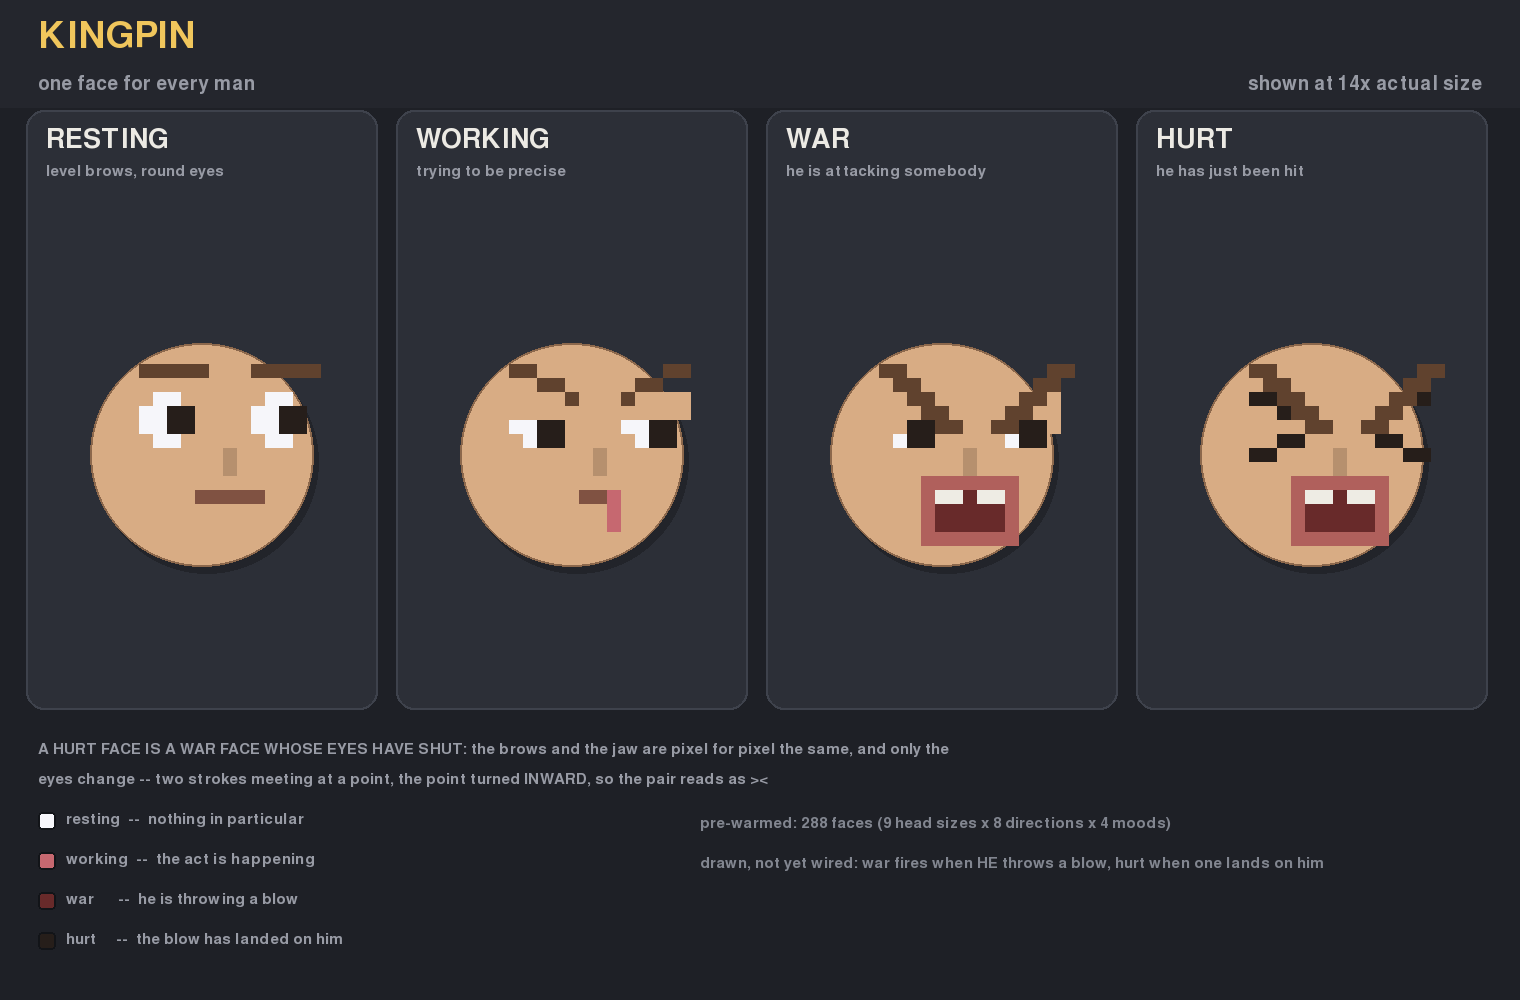
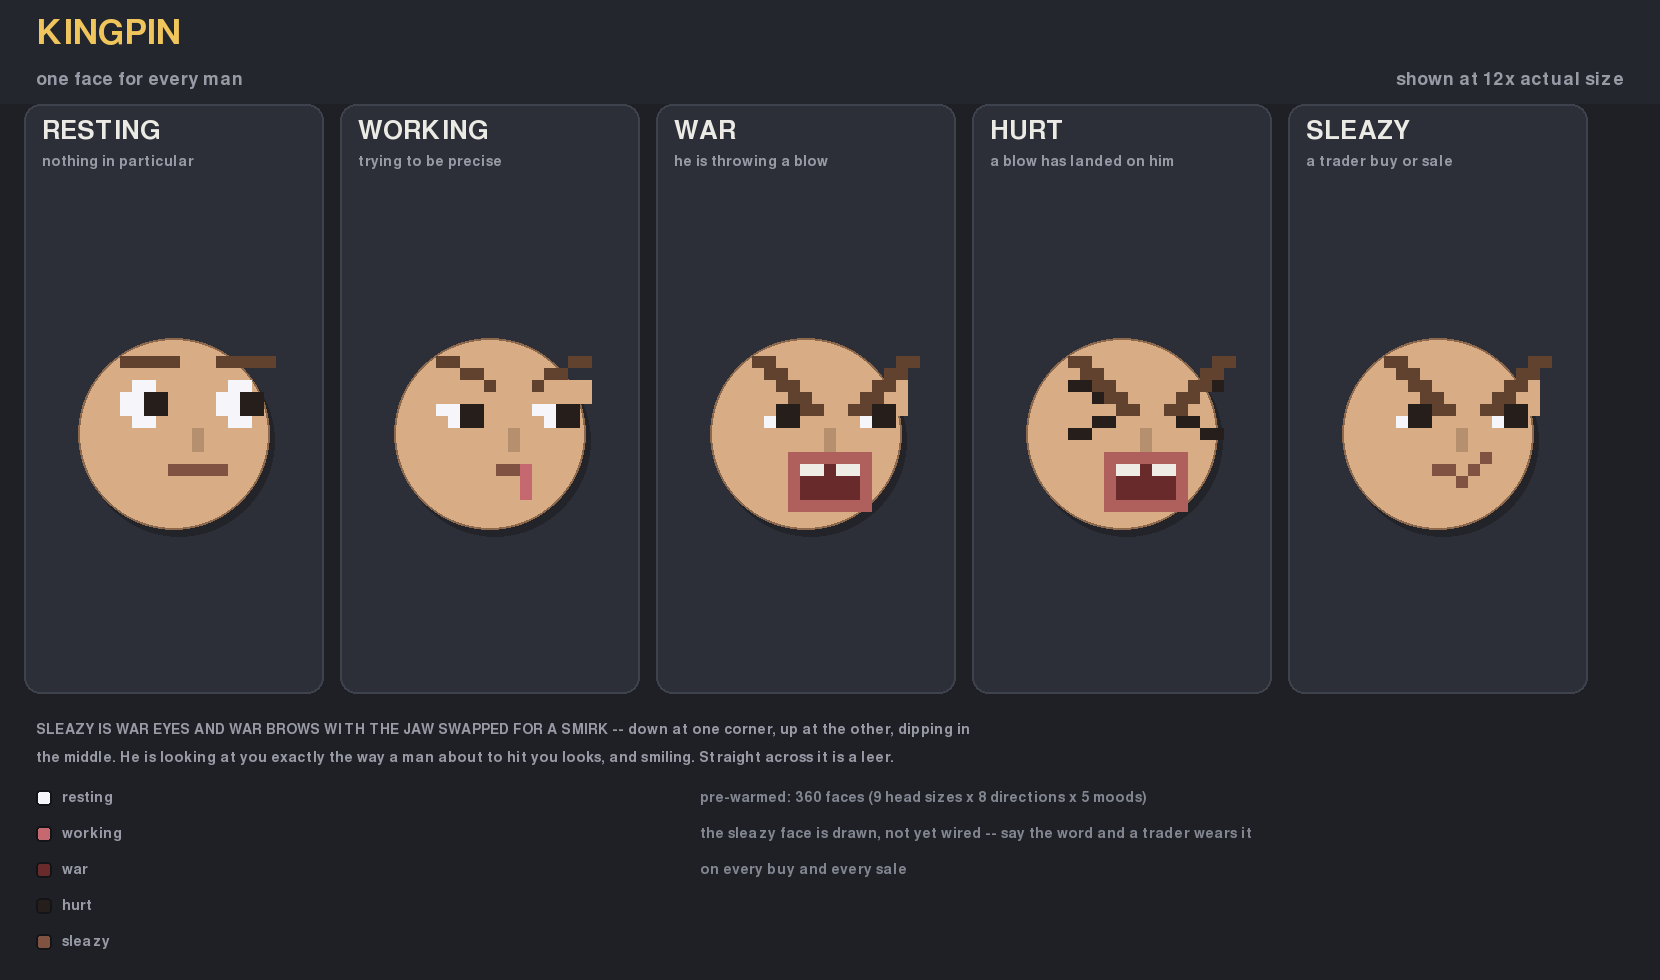
face: the sleazy face -- war eyes and war brows, bent into a smirk
A fifth mood. It wears the WAR eyes and the WAR brows exactly -- the same
flat, narrowed, heavy-browed look -- and swaps only the jaw for a sly smile:
down at one corner, up at the other, dipping in the middle. A curve, and a
lopsided one. Straight across it is a leer; symmetrical it is a grin; neither
of those is a man taking your money.

    WAR                    | HURT                   | SLY
    .......--..........--..| .......--..........--..| .......--..........--..
    ........--........--...| ........--........--...| ........--........--...
    .......  -- ...  -- ...| .......@@--......--@...| .......  -- ...  -- ...
    .......   --... --  ...| .........@--....--.....| .......   --... --  ...
    .......  @@--..--@@ ...| ...........--..--......| .......  @@--..--@@ ...
    ........O@@.....O@@....| .........@@.....@@.....| ........O@@.....O@@....
    ..........LLLLLLL......| ..........LLLLLLL......| ...............u.......
    ..........LwwmwwL......| ..........LwwmwwL......| ...........uu.u........
    ..........LmmmmmL......| ..........LmmmmmL......| .............u.........
    ..........LmmmmmL......| ..........LmmmmmL......|
    ..........LLLLLLL......| ..........LLLLLLL......|

MEASURED, sly against war:
   brows and eyes identical True | mouth differs True

360 faces pre-warmed now -- nine head sizes, eight directions, five moods.

Not wired yet: this is the picture, for approval.

diff --git a/face.py b/face.py
@@ -109,13 +109,19 @@ def _render(screen, hx: float, hy: float, r: int, fx: float, fy: float,
     focusing = (mood == "focus")
     angry = (mood == "angry")
     hurt = (mood == "hurt")
+    sly = (mood == "sly")
     # THE WAR MOUTH AND THE WAR BROWS, AND ONLY THE EYES ARE DIFFERENT. A hurt
     # face is a war face whose eyes have shut against the pain -- he is still
     # shouting, he is just no longer looking at anything.
+    #
+    # THE SLY FACE WEARS THE WAR EYES AND THE WAR BROWS TOO, and swaps only the
+    # jaw: the same flat, narrowed look, bent into a smirk. Which is the whole
+    # joke -- he is looking at you exactly the way a man about to hit you
+    # looks, and smiling.
     war = angry or hurt
 
     # THE EYES, AND HOW FAR THE LID COMES DOWN.
-    if angry:
+    if angry or sly:
         lid = max(1, int(round(wr * 1.45)))     # the brow is pressing it shut
     elif focusing:
         lid = max(1, int(round(wr * 1.1)))
@@ -148,7 +154,7 @@ def _render(screen, hx: float, hy: float, r: int, fx: float, fy: float,
                             iy + lid // 2 + int(round(fy * wr * 0.45))), pr)
 
     # THE BROWS.
-    if war:
+    if war or sly:
         # A HARD STEEP V, AND THICK. The inner end comes down almost level with
         # the eye and the outer end rides high; the stroke is two or three
         # pixels because at this size a hairline reads as a smudge, not a brow.
@@ -212,6 +218,16 @@ def _render(screen, hx: float, hy: float, r: int, fx: float, fy: float,
         pygame.draw.rect(screen, LIP, mouth, 1, border_radius=rad)
         return
 
+    if sly:
+        # A SLY SMILE: down at one corner, up at the other, and the line dips
+        # in the middle. A curve rather than a line, and lopsided rather than
+        # symmetrical -- straight across it is a leer, and symmetrical it is a
+        # grin, and neither of those is a man taking your money.
+        hw = max(2, int(round(r * 0.28)))
+        pygame.draw.line(screen, MOUTH, (ix - hw, my), (ix, my + 1), 1)
+        pygame.draw.line(screen, MOUTH, (ix, my + 1), (ix + hw, my - 1), 1)
+        return
+
     # THE MOUTH.
     hw = max(1, int(round(r * (0.16 if focusing else 0.26))))
     pygame.draw.line(screen, MOUTH, (ix - hw, my), (ix + hw, my), max(1, r // 8))
@@ -243,7 +259,7 @@ def mood_of(hurt_flash: float, attack_flash: float,
 
 
 def warm(radii=range(4, 13), dirs=DIRS,
-         moods=("normal", "focus", "angry", "hurt")) -> int:
+         moods=("normal", "focus", "angry", "hurt", "sly")) -> int:
     """Build every face the game can ask for BEFORE the first frame.
 
     A cache miss in the middle of a frame is twelve draw calls where the frame
